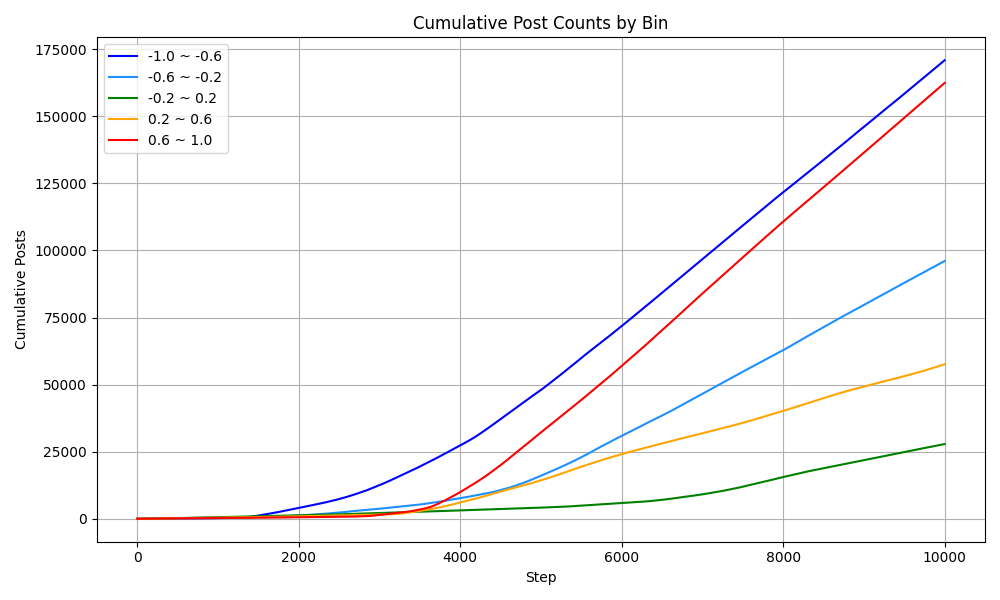
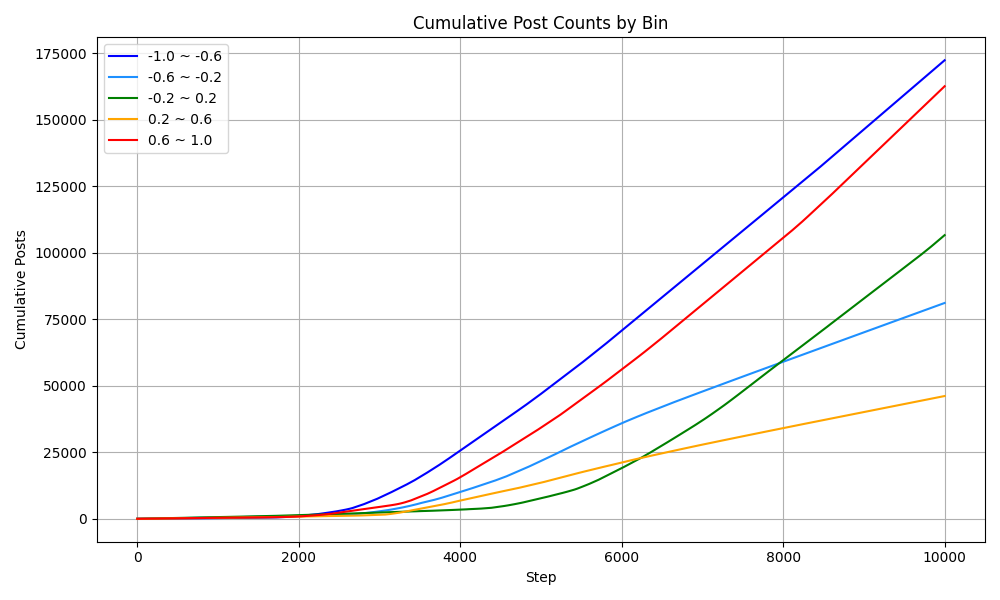
add timeStep decay in agents' parameter updating

diff --git a/src/agent/Agent.java b/src/agent/Agent.java
@@ -24,6 +24,7 @@ public class Agent {
     private double followRate;
     private double unfollowRate;
     private boolean traitor = false;
+    private int timeStep;
 
     // constructor
     public Agent(int agentID) {
@@ -41,6 +42,7 @@ public class Agent {
         this.feed = new int[NUM_OF_AGENTS];
         this.followRate = Const.INITIAL_FOLLOW_RATE;
         this.unfollowRate = Const.INITIAL_UNFOLLOW_RATE;
+        this.timeStep = 0;
         /*
          * if(0.1 > rand.nextDouble()){
          * this.traitor = true;
@@ -109,6 +111,10 @@ public class Agent {
         this.opinion = value;
     }
 
+    public void setTimeStep(int time){
+        this.timeStep = time;
+    }
+
     public void setTolerance(double value) {
         this.tolerance = value;
     }
@@ -175,11 +181,11 @@ public class Agent {
         double comfortPostRate = (double) comfortPostNum / postNum;
         if (comfortPostRate > Const.COMFORT_RATE) {
             // System.out.println("I'm comfort !! having opinion of " + this.opinion);
-            this.postProb += 0.01;
-            this.mediaUseRate += 0.01;
+            this.postProb += 0.01 * decayFunc(this.timeStep);
+            this.mediaUseRate += 0.01 * decayFunc(this.timeStep);
         } else {
-            this.postProb -= 0.001;
-            this.mediaUseRate -= 0.001;
+            this.postProb -= 0.001 * decayFunc(this.timeStep);
+            this.mediaUseRate -= 0.001 * decayFunc(this.timeStep);
         }
 
         this.opinion = this.tolerance * this.intrinsicOpinion + (1 - this.tolerance) * (temp / postNum);
@@ -286,7 +292,7 @@ public class Agent {
             Post unfollowPost = this.postCash.getAllPosts()[rand.nextInt(postCash.getSize())];
             if (Math.abs(unfollowPost.getPostOpinion() - this.opinion) > this.bc) {
                 int unfollowId = unfollowPost.getPostUserId();
-                this.bc -= 0.05;
+                this.bc -= 0.05 * decayFunc(this.timeStep);
                 if (this.bc < Const.MINIMUM_BC) {
                     this.bc = Const.MINIMUM_BC;
                 }
@@ -300,15 +306,20 @@ public class Agent {
     public Post makePost(int step) {
         // 極端な投稿を自重するようにmoderate
         Post post;
-        if (this.opinion > 0.7 && rand.nextDouble() < 0.0) {
-            post = new Post(this.id, this.opinion - 0.2, step);
-        } else if (this.opinion < -0.7 && rand.nextDouble() < 0.0) {
-            post = new Post(this.id, this.opinion + 0.2, step);
+        if (this.opinion > 0.8 && rand.nextDouble() < 0.0) {
+            post = new Post(this.id, this.opinion - 0.1, step);
+        } else if (this.opinion < -0.8 && rand.nextDouble() < 0.0) {
+            post = new Post(this.id, this.opinion + 0.1, step);
         } else {
             post = new Post(this.id, this.opinion, step);
         }
         this.toPost = 1;
         return post;
+    }
+
+    public double decayFunc(double time){
+        double lambda = 0.1;
+        return Math.exp(-lambda * time);
     }
 
 }

diff --git a/src/dynamics/OpinionDynamics.java b/src/dynamics/OpinionDynamics.java
@@ -11,8 +11,9 @@ import java.util.HashSet;
 import java.util.List;
 import java.util.Random;
 import java.util.Set;
+
+import admin.*;
 import network.*;
-import optim.*;
 import rand.randomGenerater;
 import writer.Writer;
 
@@ -89,6 +90,7 @@ public class OpinionDynamics {
 
             for (Agent agent : agentSet) {
                 int agentId = agent.getId();
+                agent.setTimeStep(step);
                 // このstepでSNSを利用するか決定する
                 if (rand.nextDouble() > agent.getMediaUseRate()) {
                     continue;
@@ -100,18 +102,18 @@ public class OpinionDynamics {
                 /// follow
                 
                 // 全体からフォローできる
-                List<Integer> followList = new ArrayList<>();
+                /*List<Integer> followList = new ArrayList<>();
                 for (int j = 0; j < agentNum; j++) {
                     if (agentId != j && W[agentId][j] == 0.0) {
                         followList.add(j);
                     }
                 }
                 // 重複を削除 (フォローしているユーザがフォローしているユーザは被る可能性がある)
-                followList = new ArrayList<>(new HashSet<>(followList));
+                followList = new ArrayList<>(new HashSet<>(followList));*/
                 
                 
                 // 友達の友達からフォローできる
-                /*List<Integer> followList = new ArrayList<>();
+                List<Integer> followList = new ArrayList<>();
                 Set<Integer> candidates = new HashSet<>();
                 // 自分のフォロー相手（1次近傍）を取得
                 for (int j = 0; j < agentNum; j++) {
@@ -124,7 +126,7 @@ public class OpinionDynamics {
                         }
                     }
                 }
-                followList = new ArrayList<>(candidates);*/
+                followList = new ArrayList<>(candidates);
 
                 int followedId = agent.follow(followList, agentSet);
                 //int followedId = -1;

diff --git a/src/constants/Const.java b/src/constants/Const.java
@@ -30,7 +30,7 @@ public class Const {
     public static final double MINIMUM_BC = 0.1;
     public static final double INITIAL_MEDIA_USER_RATE = 0.1;
     public static final double COMFORT_RATE = 0.5;
-    public static final double INITIAL_TOLERANCE = 0.8; // 決してunrealisticではない
+    public static final double INITIAL_TOLERANCE = 0.8; // 0.8は決してunrealisticではない
 
     // input data parameter
     public static final String EDGES_FILE_PATH = "Twitter/edgesTwitter.txt";

diff --git a/src/admin/AdminOptimOrigin.java b/src/admin/AdminOptimOrigin.java
@@ -1,4 +1,4 @@
-package optim;
+package admin;
 
 import com.gurobi.gurobi.GRB;
 import com.gurobi.gurobi.GRBEnv;

diff --git a/src/admin/AdminOptim.java b/src/admin/AdminOptim.java
@@ -1,4 +1,4 @@
-package optim;
+package admin;
 
 import agent.*;
 import constants.Const;
